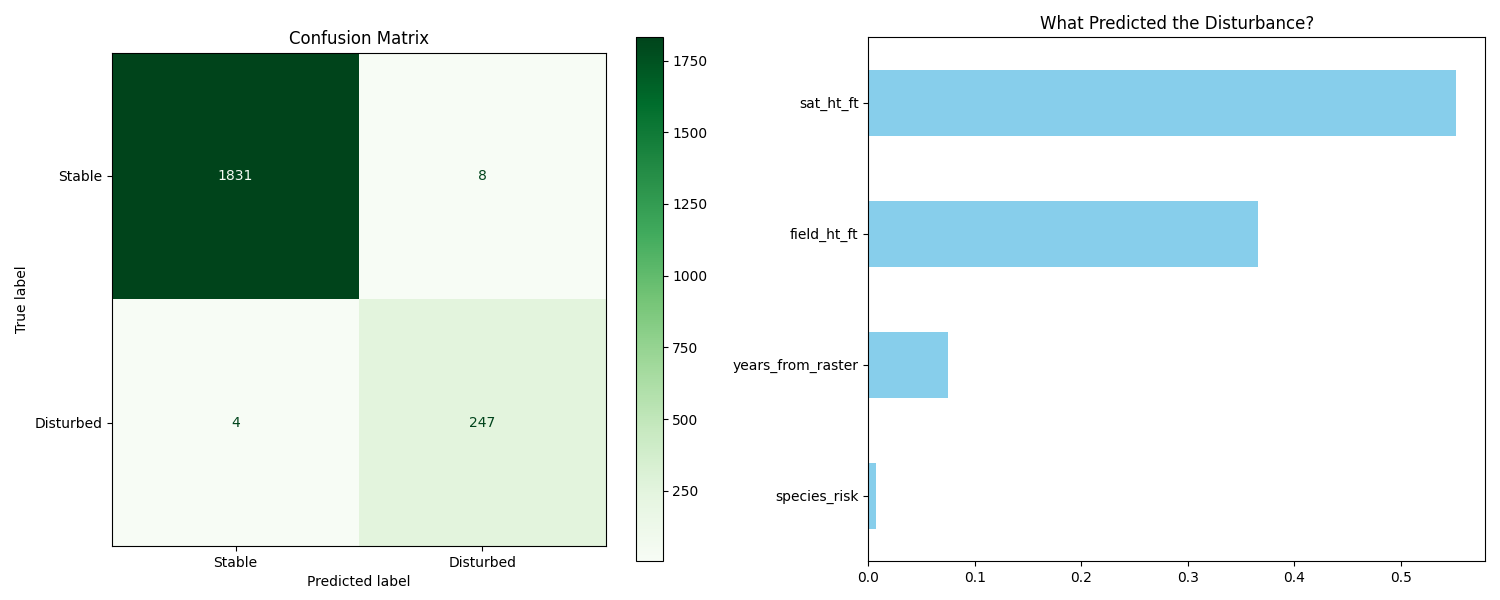
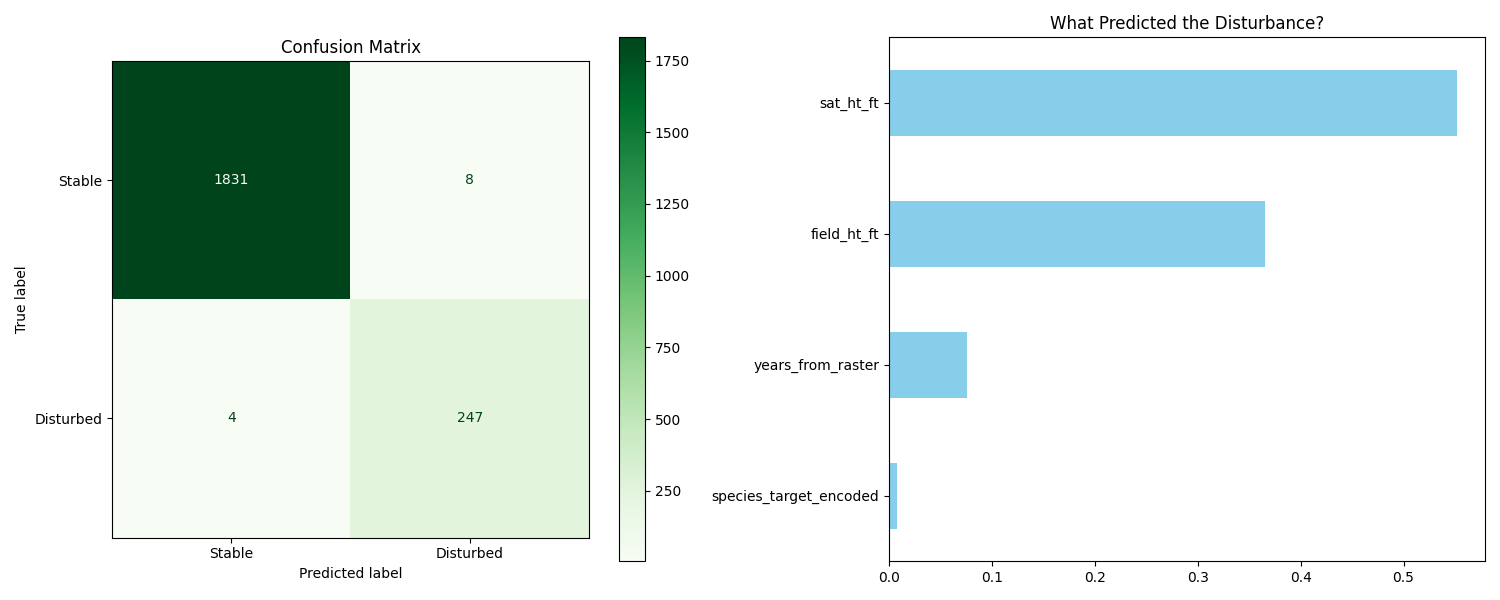
new steps in README; renamed encoded target variable

diff --git a/python_scripts/main.py b/python_scripts/main.py
@@ -37,12 +37,12 @@ print(f"{len(df)} records have been successfully imported from Postgres.")
 # plt.title("Temporal Gap vs. Disturbance Label")
 # plt.show()
 
-# calculating risk before splitting to ensure all species are captured
+# encoding species names before splitting to ensure all species again have numeric value
 species_map = df.groupby('common_name')['is_disturbed'].mean()
-df['species_risk'] = df['common_name'].map(species_map)
+df['species_target_encoded'] = df['common_name'].map(species_map)
 
 
-# dropping id values and columns that wold confused the model
+# dropping ID values and columns that would confuse model
 # pointing y at 'is_disturbed'
 X = df.drop(columns=['plot_id', 'is_disturbed', 'survey_year', 'common_name'])
 y = df['is_disturbed']

diff --git a/READ.md b/READ.md
@@ -43,47 +43,118 @@ Leaning on XGBoost and Scikit learn, a model was designed and trained on ml_trai
 
 ## Data Pipeline & Architecture
 
-1. **New database and schema created in PostgresSQL**
-![Alter DB Query](project_screenshots/alter_db_query.png)
+<p align="left">
+  <h3>1. New database and schema created in PostgreSQL</h3>
+  <img src="project_screenshots/alter_db_query.png" width="70%" />
+</p>
 
-2. **Source data downloaded from FIA and ETH domains**
-[FIA DataMart](https://research.fs.usda.gov/products/dataandtools/fia-datamart) | [ETH Zurich](https://prs.igp.ethz.ch/research/completed_projects/automated_large-scale_high_carbon_stock.html)
+<p align="left">
+  <h3>2. Source data downloaded from FIA and ETH domains</h3>
+  <ul>
+    <li><a href="https://research.fs.usda.gov/products/dataandtools/fia-datamart">FIA DataMart</a></li>
+    <li><a href="https://prs.igp.ethz.ch/research/completed_projects/automated_large-scale_high_carbon_stock.html">ETH Zurich</a></li>
+  </ul>
+</p>
 
-3. **Raw data files used to create dataframes in Pandas**
-![CSV to Dataframe](project_screenshots/csv_to_dataframe.png)
+<p align="left">
+  <h3>3. Raw data files used to create dataframes in Pandas</h3>
+  <img src="project_screenshots/csv_to_dataframe.png" width="70%" />
+</p>
 
-4. **Pandas used to drop and/or alter column names**
-![Drop Columns](project_screenshots/drop_columns.png)
+<p align="left">
+  <h3>4. Pandas used to drop and/or alter column names</h3>
+  <img src="project_screenshots/drop_columns.png" width="70%" />
+</p>
 
-5. **SQLalchemy initializes the engine and loads the dataset**
-![SQLAlchemy Engine](project_screenshots/sqlAlchemy_engine.png)
-![TN Tree Proof](project_screenshots/tn_tree_proof.png)
+<p align="left">
+  <h3>5. SQLalchemy initializes the engine and loads the dataset</h3>
+  <img src="project_screenshots/sqlAlchemy_engine.png" width="70%" /><br><br>
+  <img src="project_screenshots/tn_tree_proof.png" width="70%" />
+</p>
 
-6. **Terminal command used to import 4 .tif files**
-![Raster Import](project_screenshots/raster_terminal_command.png)
+<p align="left">
+  <h3>6. Terminal command used to import all .tif files</h3>
+  <img src="project_screenshots/raster_terminal_command.png" width="70%" />
+</p>
 
-7. **PostGIS extension and indexing**
-![Raster Ext Install](project_screenshots/raster_ext_install.png)
-![PostGIS Raster Transform](project_screenshots/postgis_raster_transform_coords.png)
-![Index Geom](project_screenshots/index_geom.png)
+<p align="left">
+  <h3>7. PostGIS extension and indexing</h3>
+  <table style="width: 100%; border-collapse: collapse;">
+    <tr style="border: none;">
+      <th style="text-align: center; border: none;">Raster-specific Extension</th>
+      <th style="text-align: center; border: none;">Transform Raster</th>
+      <th style="text-align: center; border: none;">Index Geometry</th>
+    </tr>
+    <tr style="border: none;">
+      <td style="width: 33%; border: none;"><img src="project_screenshots/raster_ext_install.png" style="width: 100%;" /></td>
+      <td style="width: 33%; border: none;"><img src="project_screenshots/postGIS_raster_transform.png" style="width: 100%;" /></td>
+      <td style="width: 33%; border: none;"><img src="project_screenshots/index_geom.png" style="width: 100%;" /></td>
+    </tr>
+  </table>
+</p>
 
-8. **Create ML schema**
+<p align="left">
+  <h3>8. Create ML schema</h3>
+  <img src="project_screenshots/drop_create_schemas.png" width="70%" />
+</p>
 
-![Drop Create Schemas](project_screenshots/drop_create_schemas.png)
+<p align="left">
+  <h3>9. Joins and SQL logic for ML table creation</h3>
+  <img src="project_screenshots/create_ranked_ml_ready.png" width="70%" />
+</p>
 
-9. **Joins and SQL logic for ML table creation**
 
-![ML Data Table Query](project_screenshots/create_ranked_ml_ready.png)
+<p align="left">
+  <h3>10. Reconnect to PostgrSQL for ML Table Ingestion</h3>
+  <img src="project_screenshots/ml_data_ingestion.png" width="70%" />
+  <img src="project_screenshots/ingestion_terminal_proof.png" width="70%" />
+</p>
 
-10. **Reconnect to PostgreSQL to ingest ML-ready data**
+<p align="left">
+  <h3>11. EDA for proof of concept prior to ML run</h3>
+  <table style="width: 100%; border-collapse: collapse;">
+    <tr style="border: none;">
+      <th style="text-align: center; border: none;">Species Count</th>
+      <th style="text-align: center; border: none;">Time Gap Analysis</th>
+    </tr>
+    <tr style="border: none;">
+      <td style="width: 50%; border: none;">
+        <img src="project_screenshots/disturbed_species_cnt.png" style="width: 100%;" />
+      </td>
+      <td style="width: 50%; border: none;">
+        <img src="project_screenshots/time_gap.png" style="width: 100%;" />
+      </td>
+    </tr>
+  </table>
+</p>
 
-![ML Data Table Query](project_screenshots/create_ranked_ml_ready.png)
+<p align="left">
+  <h3>12. XGBoost model initialization and training</h3>
+  <img src="project_screenshots/ML_meat.png" width="70%" />
+</p>
 
-11. **EDA for proof of concept prior to ML run**
+<p align="left">
+  <h3>13. Model run and rerformance</h3>
+  <table style="width: 100%; border-collapse: collapse;">
+    <tr style="border: none;">
+      <th style="text-align: center; border: none;">Meat of model</th>
+      <th style="text-align: center; border: none;">Performance stats</th>
+    </tr>
+    <tr style="border: none;">
+      <td style="width: 50%; border: none;">
+        <img src="project_screenshots/ML_meat.png" style="width: 100%;" />
+      </td>
+      <td style="width: 50%; border: none;">
+        <img src="project_screenshots/model_performance.png" style="width: 100%;" />
+      </td>
+    </tr>
+  </table>
+</p>
 
-| Species Count | Time Gap Analysis |
-| :---: | :---: |
-| <img src="project_screenshots/disturbed_species_cnt.png" width="400" height="250" />|<img src="project_screenshots/time_gap.png" width="400" height="250" /> |
+<p align="left">
+  <h3>14. Results</h3>
+  <img src="project_screenshots/model_results.png" width="70%" />
+</p>
 
 ### **Database Schema Preview**
 | Overview Schema | ML Ready Schema | Raw Data Schema |
